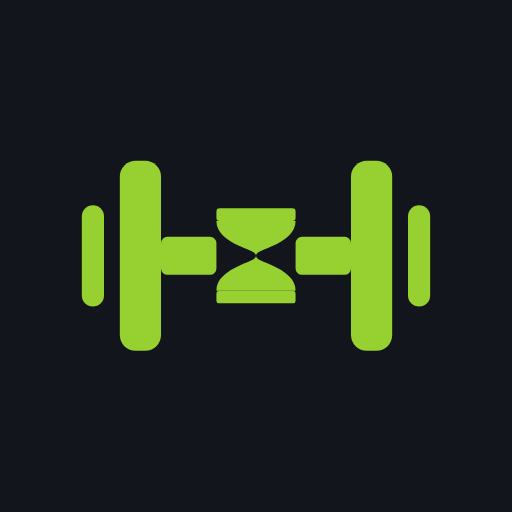
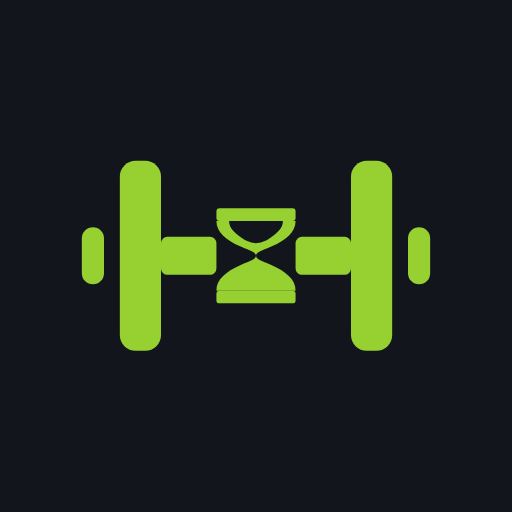
fix: reloj de arena hueco arriba y solido abajo, midiendo el archivo real
El usuario adjunto por fin el archivo real (antes solo llegaba pegado y
no se podia usar). Medido con codigo (limites de pixel verde vs fondo):
las puntas de la pesa son ~30% de la altura del disco principal (antes
quedaban casi iguales), y el reloj de arena no es un moño solido: arriba
es hueco (solo el marco curvo, se ve el fondo a traves) y abajo esta
solido (la arena ya caida). El hueco se logra con fill-rule=evenodd asi
es transparencia real, no un parche de color que se rompe en otro fondo.

diff --git a/components/Logo.tsx b/components/Logo.tsx
@@ -6,15 +6,25 @@
 export function Logo({ className }: { className?: string }) {
   return (
     <svg viewBox="0 0 240 140" className={className} fill="currentColor" aria-hidden="true">
-      <rect x="10" y="38" width="14" height="64" rx="7" />
+      <rect x="10" y="52" width="14" height="36" rx="7" />
       <rect x="34" y="10" width="26" height="120" rx="10" />
       <rect x="180" y="10" width="26" height="120" rx="10" />
-      <rect x="216" y="38" width="14" height="64" rx="7" />
+      <rect x="216" y="52" width="14" height="36" rx="7" />
       <rect x="60" y="58" width="35" height="24" rx="4" />
       <rect x="145" y="58" width="35" height="24" rx="4" />
       <rect x="95" y="40" width="50" height="8" rx="2" />
       <rect x="95" y="92" width="50" height="8" rx="2" />
-      <path d="M95,48 L145,48 C145,55 139,60 130,64 C123,67 120,68 120,70 C120,72 123,73 130,76 C139,80 145,85 145,92 L95,92 C95,85 101,80 110,76 C117,73 120,72 120,70 C120,68 117,67 110,64 C101,60 95,55 95,48 Z" />
+      {/* Reloj de arena real: arriba HUECO (solo el marco curvo, el vidrio sin
+          arena — se logra con evenodd: contorno externo + contorno interno
+          más pequeño, así el hueco es transparencia real, no un parche de
+          color que se rompería sobre cualquier fondo), abajo SÓLIDO (la
+          arena ya caída). Medido sobre la imagen de referencia del usuario. */}
+      <path
+        fillRule="evenodd"
+        d="M95,48 L145,48 C145,55 139,60 130,64 C123,67 120,68 120,70 C120,68 117,67 110,64 C101,60 95,55 95,48 Z
+           M103,48 L137,48 C137,53 133,56 127,60 C123,62 120,62 120,62 C120,62 117,62 113,60 C107,56 103,53 103,48 Z"
+      />
+      <path d="M95,92 L145,92 C145,85 139,80 130,76 C123,73 120,72 120,70 C120,72 117,73 110,76 C101,80 95,85 95,92 Z" />
     </svg>
   );
 }
